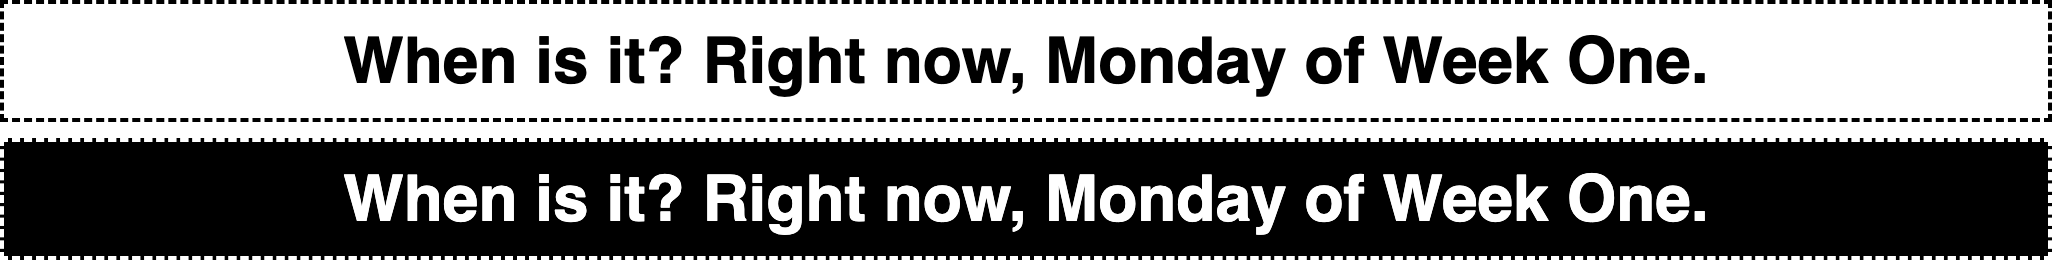
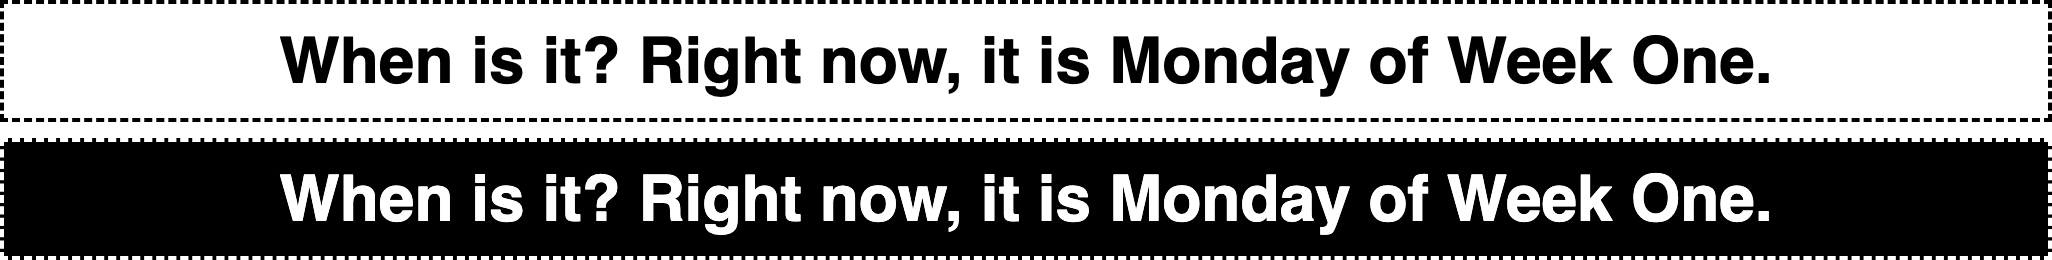
Fix typo

diff --git a/2024.js b/2024.js
@@ -99,9 +99,9 @@ const getDayName = (dayNumber) => { // [N.B: in HTML format, the first day in th
 // Get week names for Semesters One and Two
 const getWeekName = (weekNumber) => {
     if (weekNumber < 0) {
-        return "it is before " + semester + " has started.";
+        return "before " + semester + " has started.";
     } else if (weekNumber >= 18) {
-        return "it is after " + semester + " has finished.";
+        return "after " + semester + " has finished.";
     } else if (semesterStartDate == semester1) {
         switch (weekNumber) {
             case 1:

diff --git a/day-and-week-banner(lessbold).html b/day-and-week-banner(lessbold).html
@@ -30,7 +30,7 @@
 </head>
 
 <body>
-  <p style="font-size: 20pt;">When is it? Right now, <span id="week-display"></span></p>
+  <p style="font-size: 20pt;">When is it? Right now, it is <span id="week-display"></span></p>
   <script src="2024.js"></script>
 </body>
 

diff --git a/day-and-week-banner.html b/day-and-week-banner.html
@@ -30,7 +30,7 @@
 </head>
 
 <body>
-  <h1>When is it? Right now, <span id="week-display"></span></h1>
+  <h1>When is it? Right now, it is <span id="week-display"></span></h1>
   <script src="2024.js"></script>
 </body>
 
